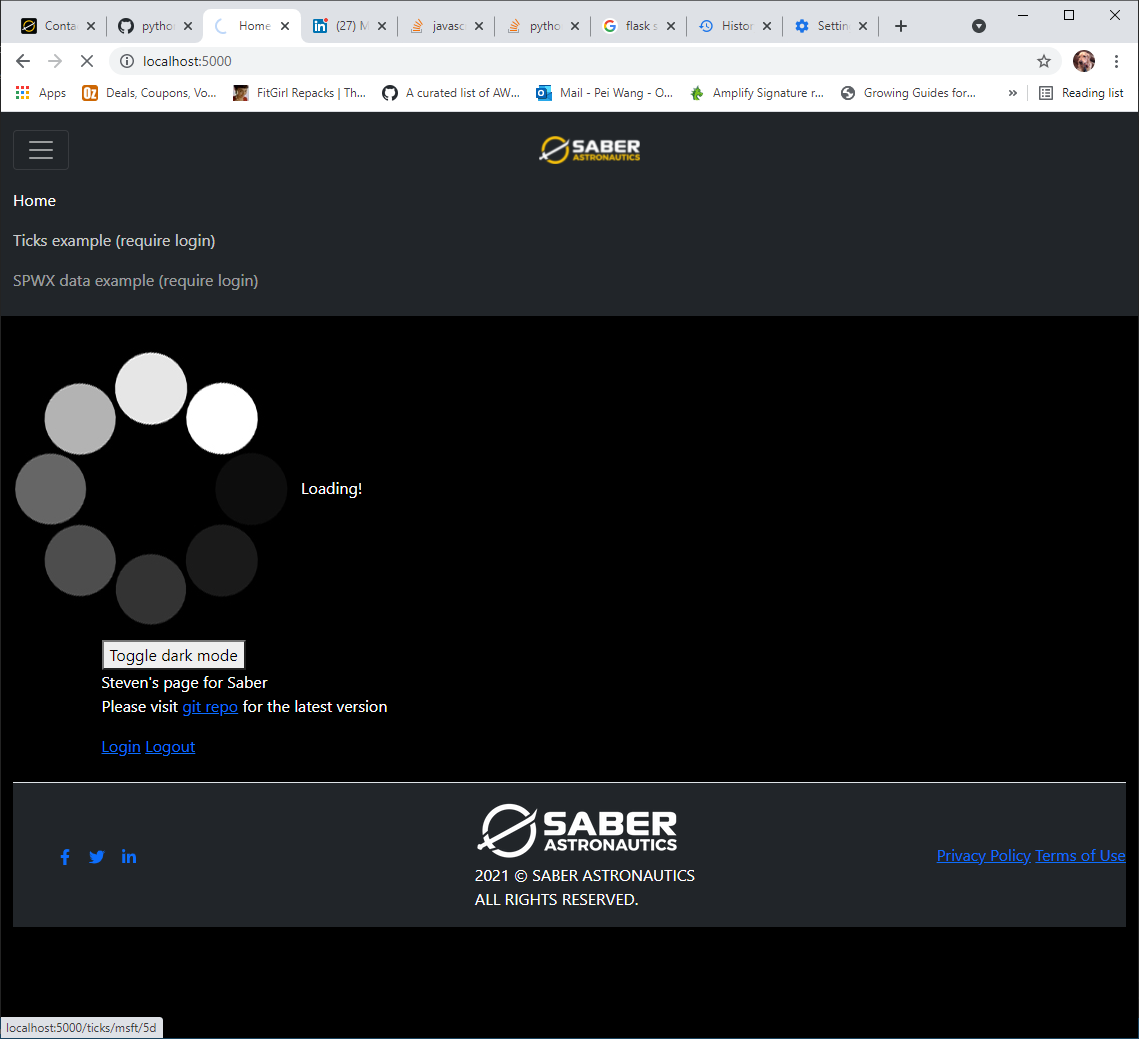
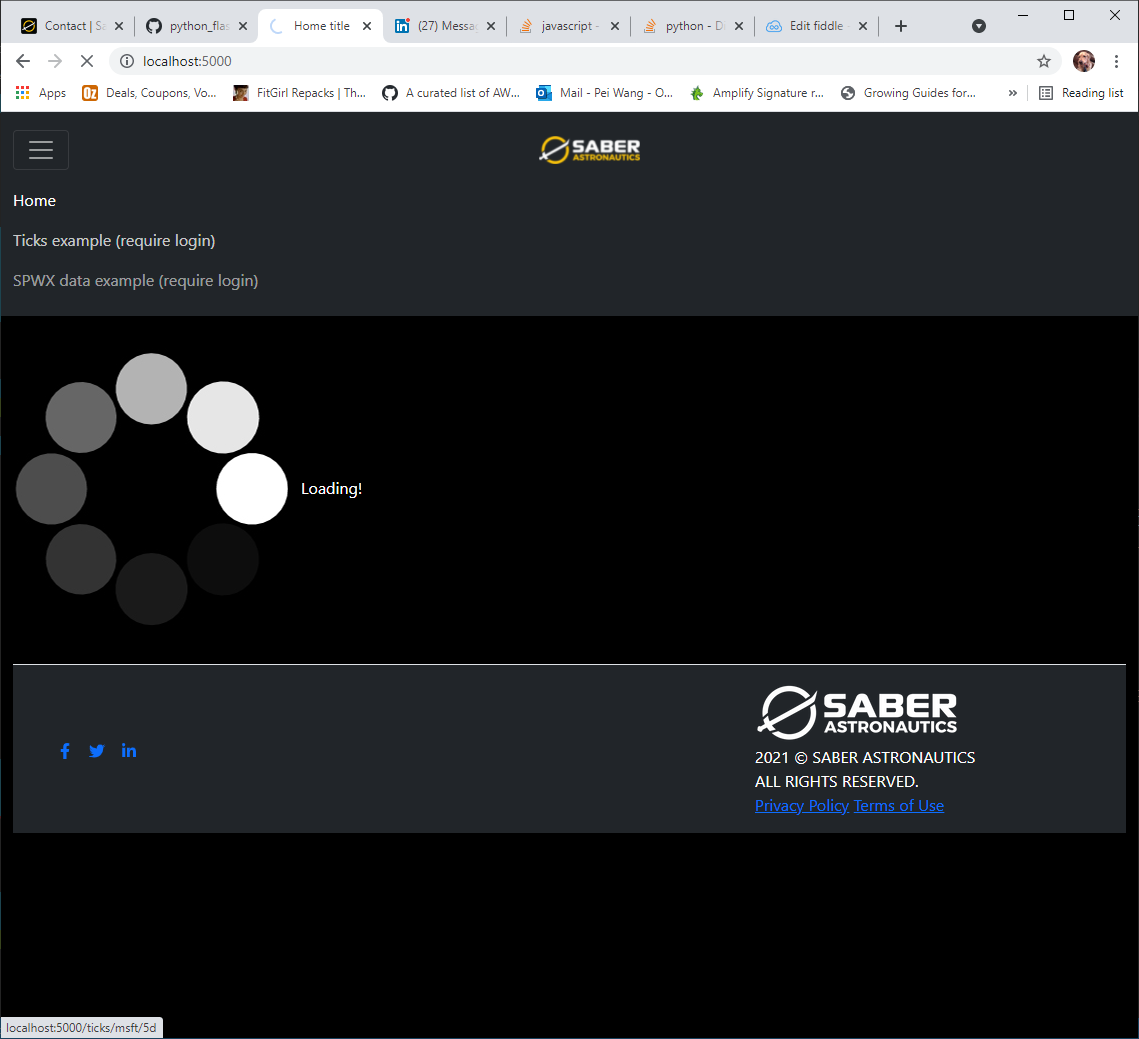
hide div content when loading pages

Changed region(s): [[0.0, 0.3388, 1.0, 0.8932], [0.0615, 0.0, 0.7375, 0.0616]]

diff --git a/task345/templates/base.html b/task345/templates/base.html
@@ -36,24 +36,28 @@
                 <a class="nav-link active" aria-current="page" href="/">Home</a>
               </li>
               <li class="nav-item">
-                <a class="nav-link" href="/ticks/msft/5d" onclick="$('#loading').show();">Ticks example (require login)</a>
+                <a class="nav-link" href="/ticks/msft/5d" onclick="$('#loading').show();$('#content').hide();">Ticks example (require login)</a>
               </li>
               <li class="nav-item">
-                <a class="nav-link" href="/spwx/5minavg?end=2021-08-03T00:48:00&start=2021-08-03T00:20:00" onclick="$('#loading').show();">SPWX data example (require login)</a>
+                <a class="nav-link" href="/spwx/5minavg?end=2021-08-03T00:48:00&start=2021-08-03T00:20:00" onclick="$('#loading').show();$('#content').hide();">SPWX data example (require login)</a>
               </li>
             </ul>
           </div>
         </div>
       </nav>
     <br>
-    <div id="loading" style="display:none;"><img src="{{url_for('static', filename='loadingimage.gif')}}" alt="" />Loading!</div>
-    <div class="container">
+    <div id="loading" style="display:none;">
+      <img src="{{url_for('static', filename='loadingimage.gif')}}" alt="" />Loading!
+    </div>
+    <div id="content">
+      <div class="container">
         <button onclick="myFunction()">Toggle dark mode</button>
         <br>
         {% block body %} {% endblock %}
+      </div>
     </div>
     <div class="container-fluid">
-        <footer class="d-flex flex-wrap justify-content-between align-items-center py-3 my-4 border-top bg-dark" width:100>
+      <footer class="d-flex flex-wrap justify-content-between align-items-center py-3 my-4 border-top bg-dark" width:100>
           <div class="col-md-4 d-flex align-items-center">
             <ul class="nav col-md-4 justify-content-end list-unstyled d-flex">
               <li class="ms-3"><a class="social-media-link" href="https://www.facebook.com/SaberAstronautics/" rel="noopener noreferrer" target="_blank" aria-label="Access Saber Astronautic's Facebook page"><div class="Footerstyled__SocialMedia-rc1ymi-5 ciKtFV"><svg stroke="currentColor" fill="currentColor" stroke-width="0" viewBox="0 0 320 512" height="1em" width="1em" xmlns="http://www.w3.org/2000/svg"><path d="M279.14 288l14.22-92.66h-88.91v-60.13c0-25.35 12.42-50.06 52.24-50.06h40.42V6.26S260.43 0 225.36 0c-73.22 0-121.08 44.38-121.08 124.72v70.62H22.89V288h81.39v224h100.17V288z"></path></svg></div></a></li>
@@ -70,16 +74,16 @@
                   </picture>
                 </div>
               </a>
-            <div>2021 © SABER ASTRONAUTICS<br>ALL RIGHTS RESERVED.</div>
+            <div>2021 © SABER ASTRONAUTICS<br>ALL RIGHTS RESERVED.
+            </div>
           </div>
-        </div>
-
         <div>
           <a href="/privacypolicy/">Privacy Policy</a>
           <a href="/termsofuse/">Terms of Use</a>
         </div>
-        </footer>
-      </div>
+      </footer>
+    </div>
+
     <script>
         function myFunction() {
             var element = document.body;
